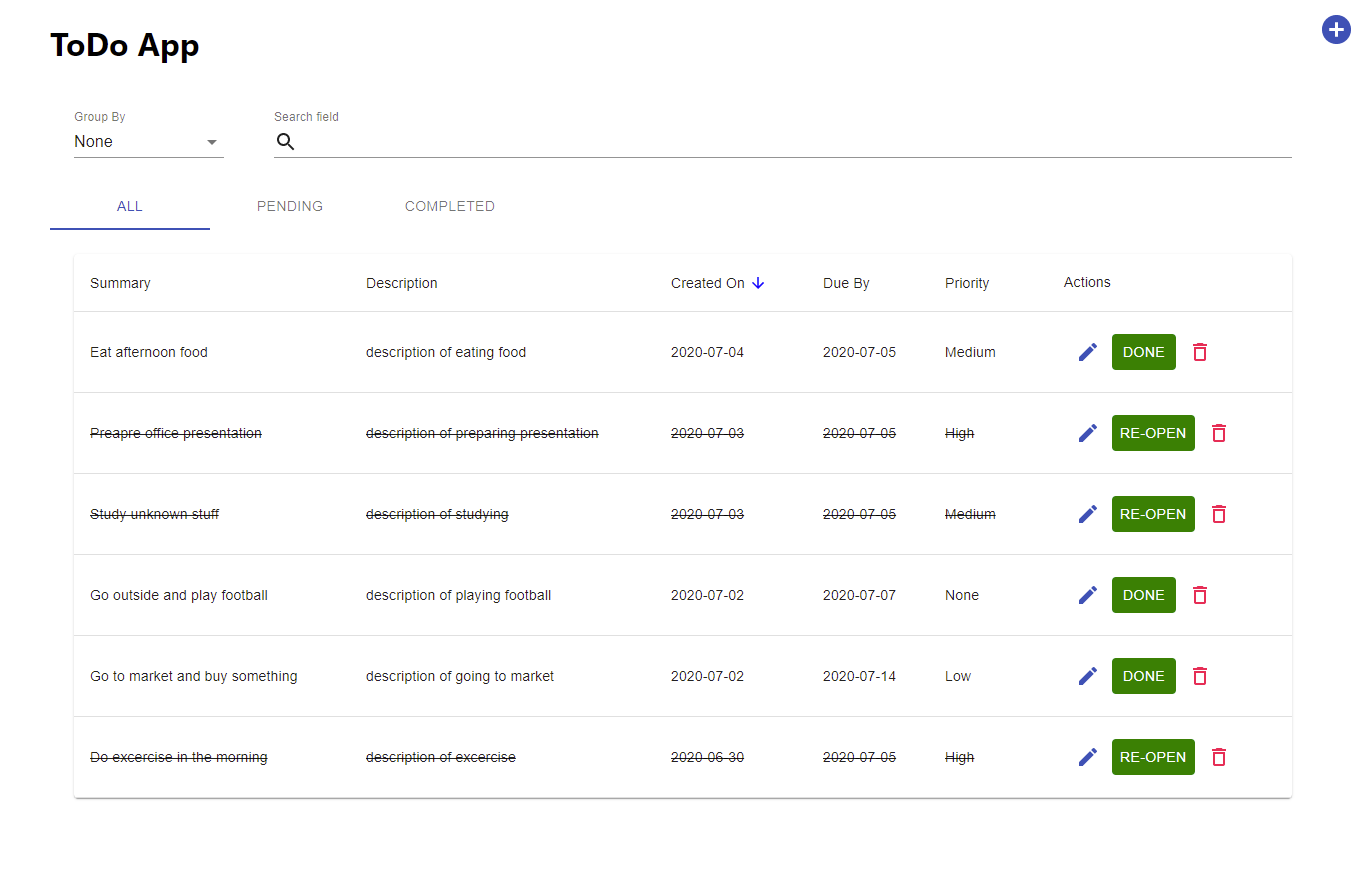
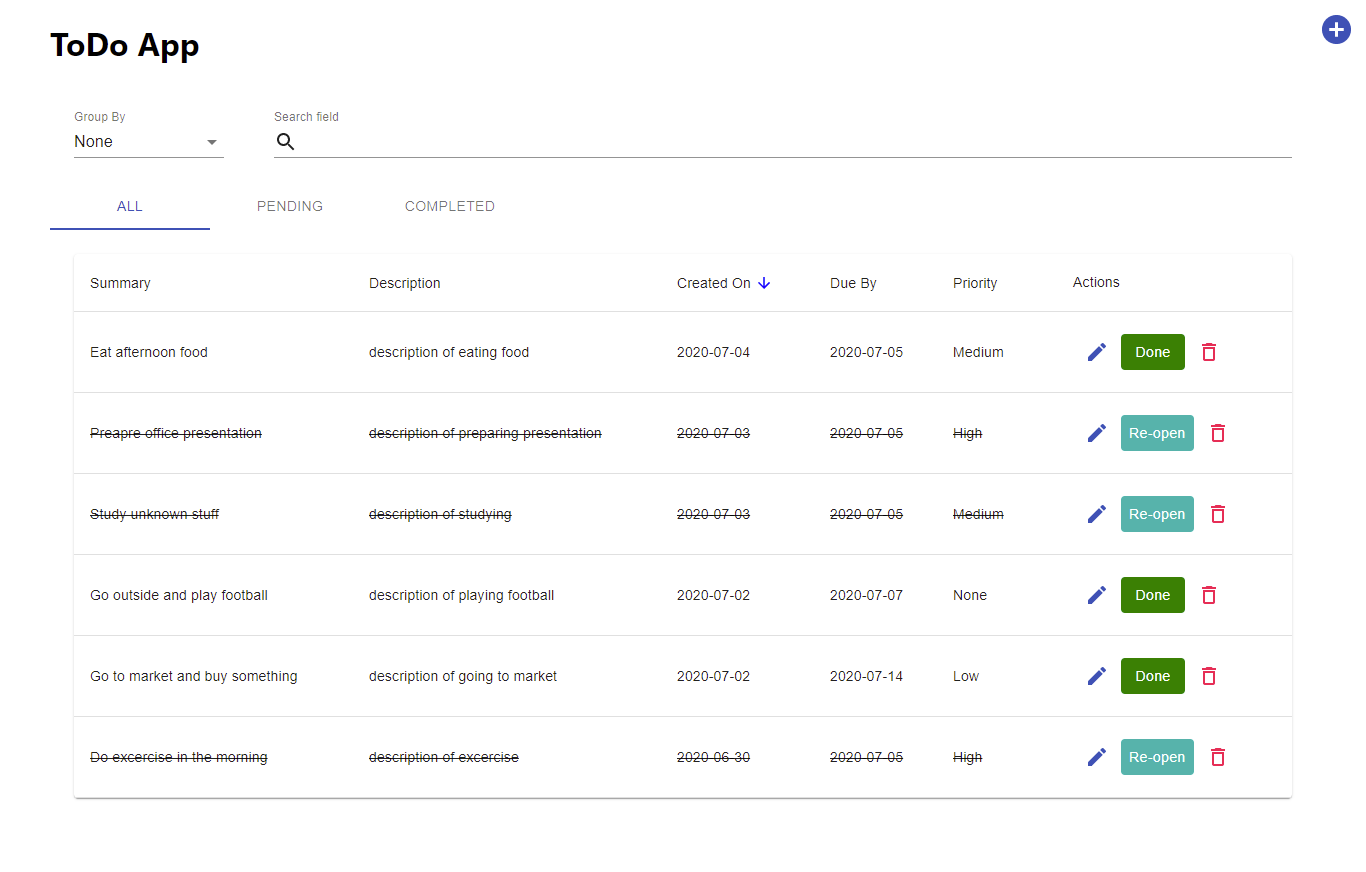
updates screensot and styling

diff --git a/src/components/todo/TodoTable/TodoTableRow/TodoTableRow.js b/src/components/todo/TodoTable/TodoTableRow/TodoTableRow.js
@@ -23,7 +23,7 @@ const TodoTableRow = ({ task, handleStateChange, handleDialogOpen }) => {
       hover
       tabIndex={-1}
       key={task.id}
-      className="cursor"
+      className="task-row"
     >
       <TableCell className={completedStyle}>{task.summary}</TableCell>
       <TableCell className={completedStyle}>{task.description}</TableCell>
@@ -47,7 +47,7 @@ const TodoTableRow = ({ task, handleStateChange, handleDialogOpen }) => {
           <Edit />
         </IconButton>
         <Button
-          className="task-state"
+          className={isCompleted ? "task-re-open" : "task-done"}
           onClick={(e) => {
             e.stopPropagation();
             handleStateChange(task);

diff --git a/src/components/todo/TodoTable/TodoTableRow/TodoTableRow.styles.scss b/src/components/todo/TodoTable/TodoTableRow/TodoTableRow.styles.scss
@@ -1,14 +1,29 @@
-.task-state {
-  color: white !important;
-  background-color: green !important;
-}
-
 .completed {
   text-decoration: line-through;
 }
 
-.cursor {
+.task-row {
   &:hover {
     cursor: pointer;
+  }
+
+  .task-done,
+  .task-re-open {
+    color: white;
+    text-transform: none;
+  }
+
+  .task-done {
+    background-color: green;
+    &:hover {
+      background-color: lightgreen;
+    }
+  }
+
+  .task-re-open {
+    background-color: lightseagreen;
+    &:hover {
+      background-color: lightskyblue;
+    }
   }
 }
